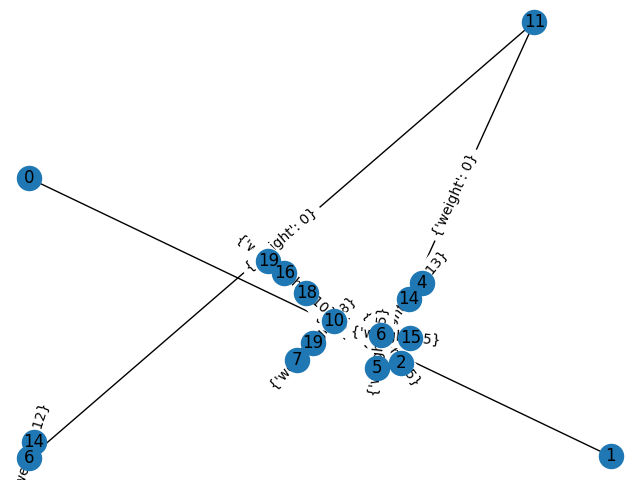
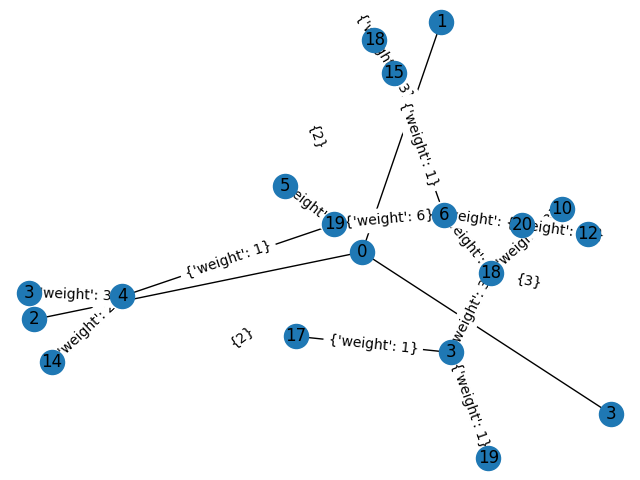
linear program PULP

diff --git a/dynamic_programming_cleaned.py b/dynamic_programming_cleaned.py
@@ -546,7 +546,7 @@ and build a clustered graph based on that tree.
     G_cluster -> the cluster graph created
 """
 def testOriginaltoCluster(n, threshold):
-    G_test = nx.full_rary_tree(6,n)
+    G_test = nx.full_rary_tree(3,n)
     setAllNodeAttributes(G_test)
     G_cluster, G_cluster2 = buildClusteredSet(G_test, threshold)
     color_map = []
@@ -584,6 +584,7 @@ def testOriginaltoCluster(n, threshold):
     clearVisitedNodesAndDictionaries(G_cluster)
     makeMatrix(G_cluster2, G_cluster2.number_of_nodes())
     return G_cluster, G_cluster2, tree_decomp
+    
 
 """
 Driver function for running dynamic programming
@@ -650,6 +651,14 @@ def bruteForce(G, k, debug):
         if debug: print('selected nodes',combo,'negative edges',temp_set_negative_edges,'total payoff',payoff)
     return(best_payoff)
 
+def print_info(G):
+    print("Edges:", nx.edges(G))
+    print("Nodes:", nx.nodes(G))
+    data = G.edges.data()
+    print(data)
+    for item in data:
+        print("Edge between cluster", item[0], "and cluster", item[1], "has weight", item[2]['weight'], " and is connected to rejecting node: ", item[2]['data'][0] )
+
 #clear dictionaries for next graph to test
 def clearVisitedNodesAndDictionaries(G):
     setVisitedFalse(G)
@@ -665,7 +674,7 @@ def treeDecompPlayground(G):
 #main function, used for calling things
 def main():
     #G2 is the graph with cycles, if they exist
-    G, G2, tree_decomp = testOriginaltoCluster(30, 0.5)
+    G, G2, tree_decomp = testOriginaltoCluster(12, 0.5)
     # if G is None:
     #    print("try again")
      #   plt.show()
@@ -674,7 +683,7 @@ def main():
     #G2 = createClusterGraph(15, 20)
     runRecursiveDP(G, 10)
     pos = nx.spring_layout(G2)
-    #node_labels = nx.get_node_attributes(G2,'weight')
+    node_labels = nx.get_node_attributes(G2,'weight')
 
     #treeDecompPlayground(G)
     plt.figure(3)

diff --git a/linear_program.py b/linear_program.py
@@ -1,8 +1,31 @@
 import pulp
-import dynamic_programming_cleaned
+import dynamic_programming_cleaned as dp
 
+def get_input_graph():
+    """
+    Make a cluster graph to run the lp on
+    """
+    G_cluster, G_cluster2, tree_decomp = dp.testOriginaltoCluster(12,0.5)
+    dp.print_info(G_cluster2)
+    return G_cluster2
+
+def lp_setup(G):
+    """
+    Set up our LP based on the cluster data. We want each cluster and rejecting node to be a variable, 
+    with the constraint that if you pick a cluster you must pick the rejecting nodes it is connected to.
+    """
+    maximize_payoff = pulp.LpProblem("Overexposure_Maximization", pulp.LpMaximize)
+    cluster_variables = []
+    edge_variables = []
+    # loop through edge data to make our constraints for the lp
+    for edge_data in G.edges.data():
+        rej_node = edge_data[2]['data'][0]
+        if edge_data[0] not in cluster_variables:
+            continue
+
+
+get_input_graph()
 # define our LP problem
-maximize_payoff = pulp.LpProblem("Overexposure Maximization", pulp.LpMaximize)
 
 """
 We want to maximize the sum of nodes minus the sum of edges for each cluster. We use a bipartite graph and ensure that
@@ -12,4 +35,10 @@ Thus, we have:
 
 max (Sum(x_i w_i) - Sum(j_e w_e)) such that Sum(x_i <= k)
 
+could we also make variables for the edges, and have a constraint where the sum of edges incoming to each rejecting
+node is 1, meaning we cannot count the node more than once? 
+
+constraints:
+    if we take a cluster we must take each rejecting node it is connected to
+    we cannot take the same rejecting node more than once
 """
